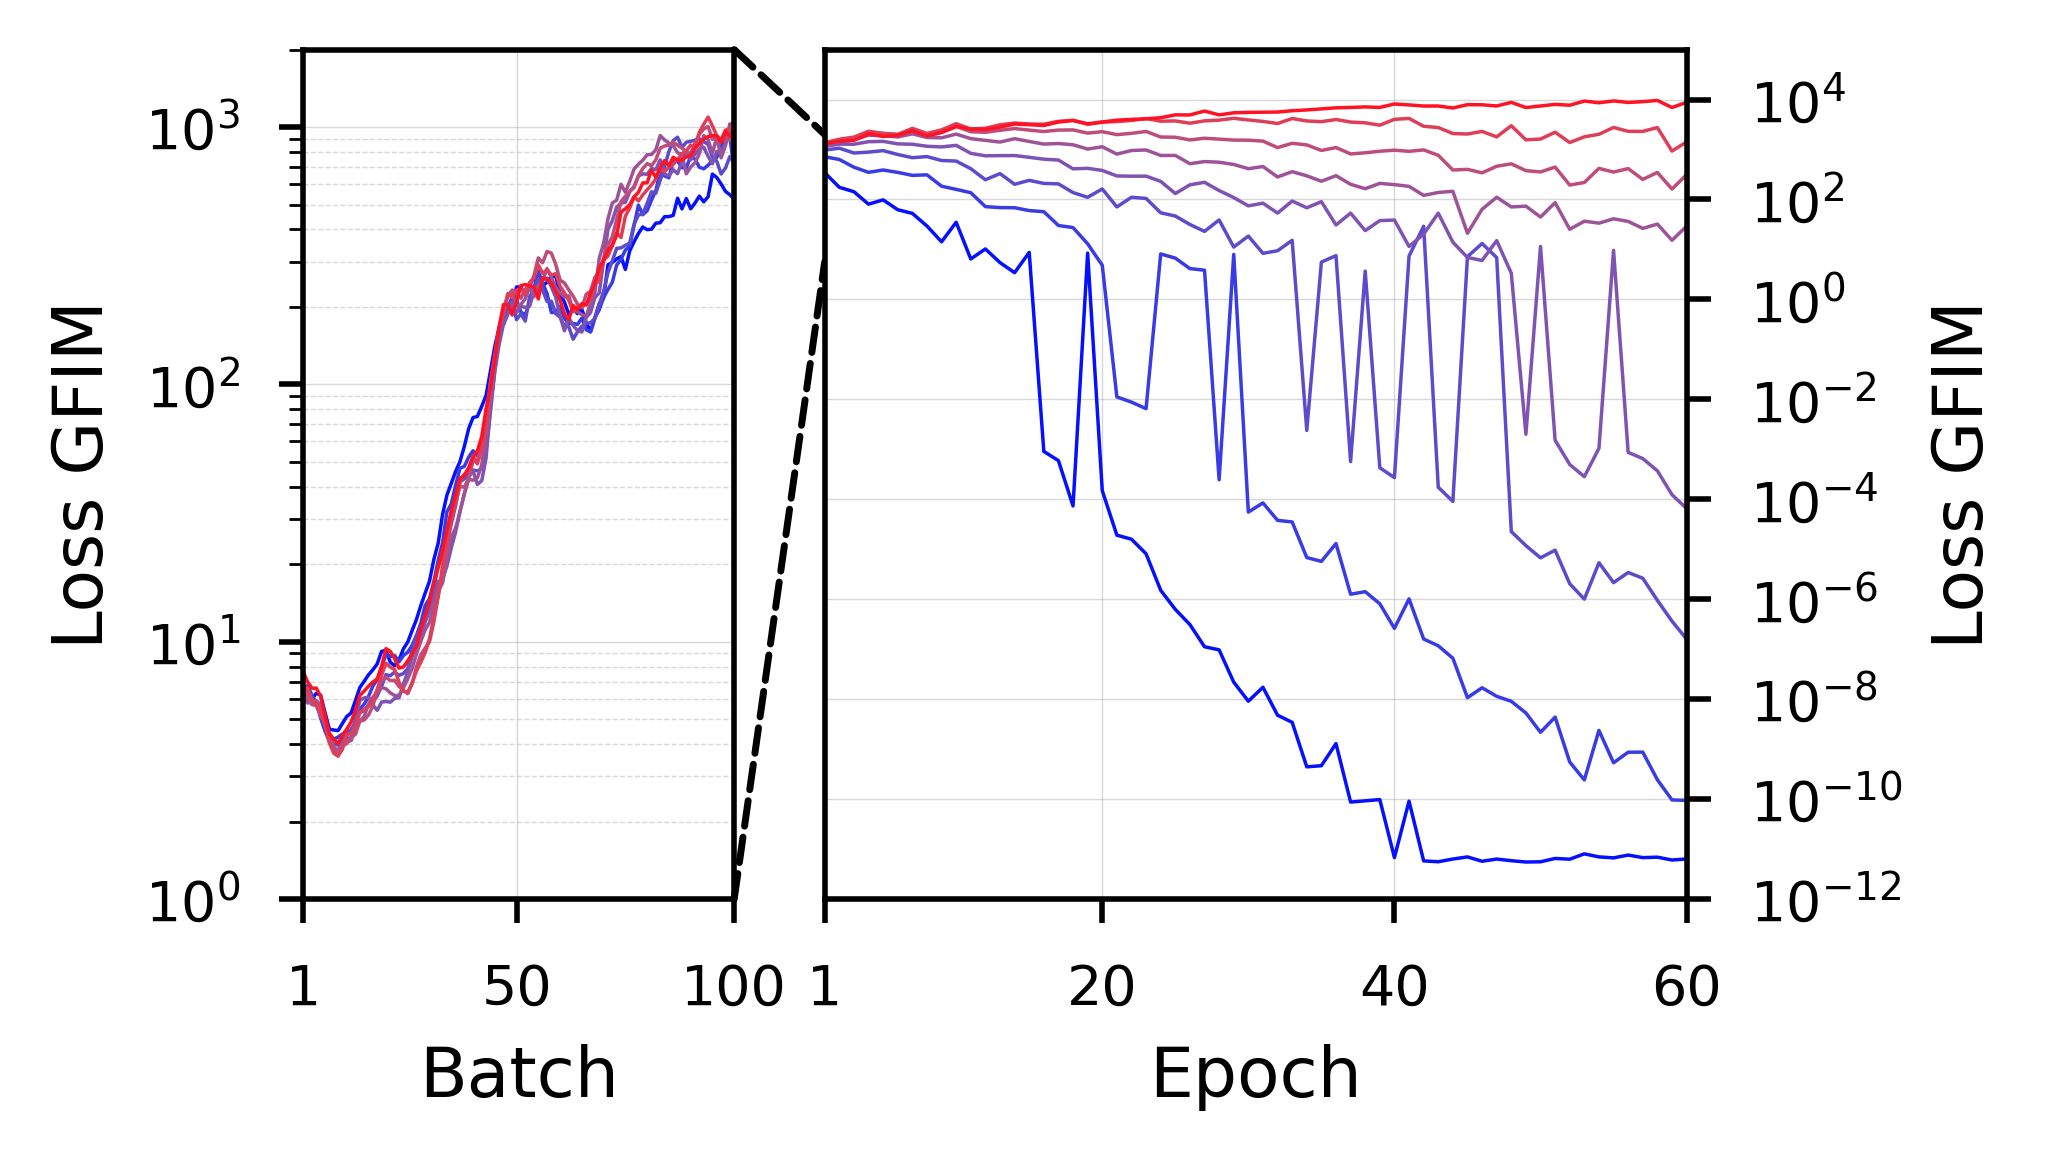
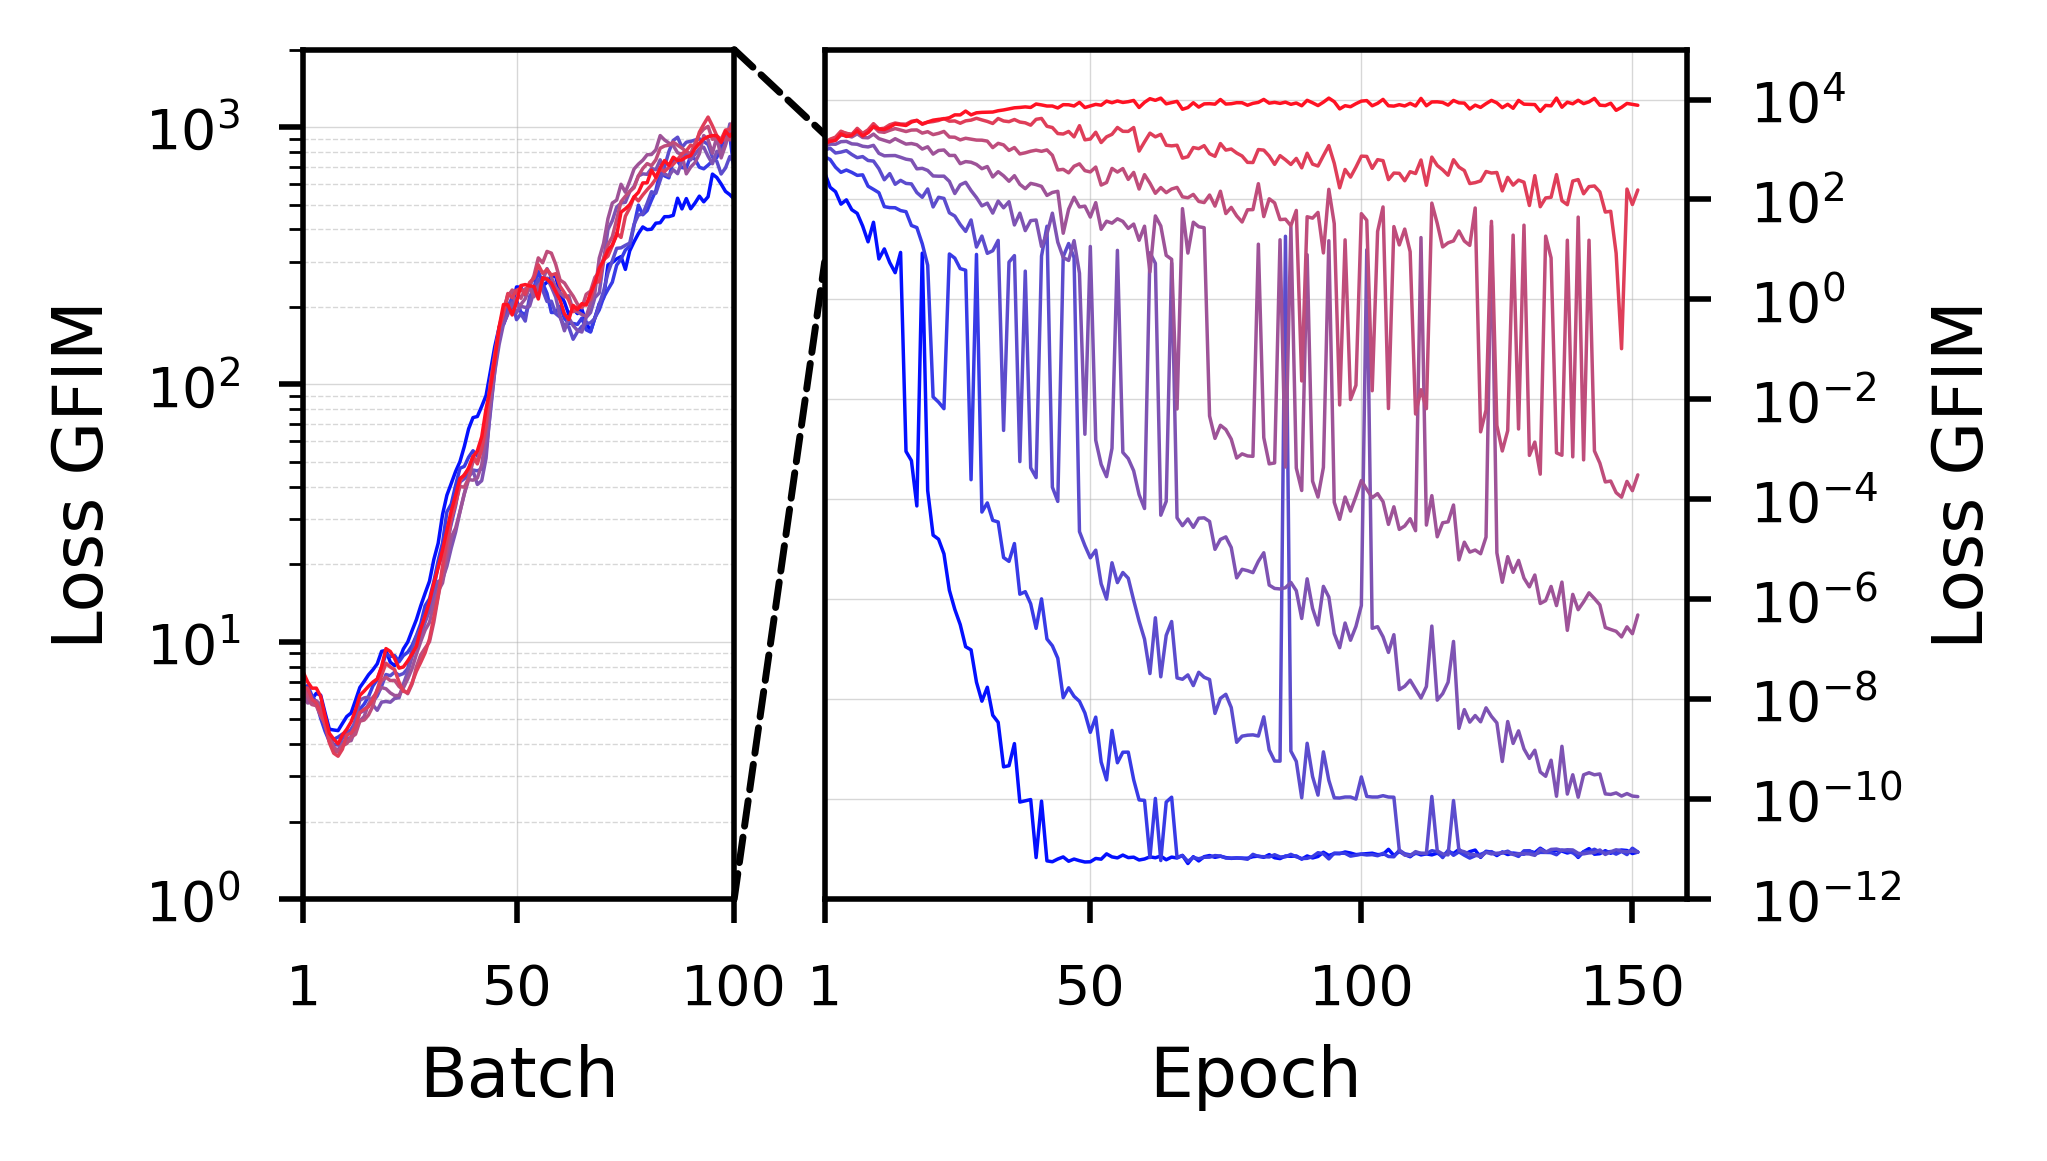
n

diff --git a/graphs.py b/graphs.py
@@ -289,7 +289,7 @@ def make_T3GFIM():
     #add 1 to the step
     FIMepoch['Step'] = FIMepoch['Step']+1
     #use the top 60 epochs
-    FIMepoch = FIMepoch.iloc[:60]
+    #FIMepoch = FIMepoch.iloc[:60]
     print(FIMepoch.head())
     sea.lineplot(ax=ax2,x="Step",y="0",data=FIMepoch,label="0 (Low)",linewidth=linsize,color=cols[0])
     sea.lineplot(ax=ax2,x="Step",y="1",data=FIMepoch,label="1",linewidth=linsize,color=cols[1])
@@ -302,8 +302,8 @@ def make_T3GFIM():
 
     ax2.set_xlabel("Epoch")
     #set the range of x axis
-    ax2.set_xlim([1,60])
-    ax2.xaxis.set_ticks([1,20,40,60])
+    ax2.set_xlim([1,160])
+    ax2.xaxis.set_ticks([1,50,100,150])
 
     ax2.set_ylabel("Loss GFIM")
     ax2.yaxis.set_label_position("right")
@@ -901,5 +901,5 @@ def make_VIT000001():
     fig.savefig("Pics/VIT000001.png", bbox_inches='tight', dpi=500)
 
 #make_VIT00001()
-make_T1GFIM()
+make_T3GFIM()
 #make_VIT()
